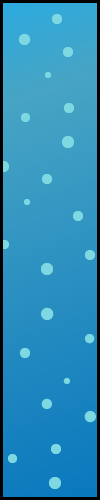
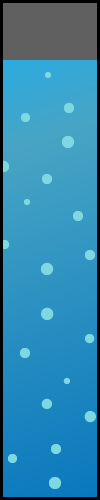
crisis update

Changed region(s): [[0.03, 0.0, 0.99, 0.12]]

diff --git a/index.html b/index.html
@@ -18,9 +18,9 @@
 
         <div id="spacer"></div>
 
-        <img id="defcon-image" src="population-01.png" alt="" class="center" width="30%">
+        <img id="defcon-image" src="defcon02.png" alt="" class="center" width="30%">
 
-        <h3>Current Population: 11,584</h3>
+        <h3>Current Population: 11,084</h3>
 
         <div id="spacer"></div>
 
@@ -39,7 +39,7 @@
                 <td width="10%">&nbsp;</td>
                 <td><h3>89%</h3></td>
                 <td><h3>100%</h3></td>
-                <td><h3>100%</h3></td>
+                <td><h3>88%%</h3></td>
                 <td width="10%">&nbsp;</td>
                 <td width="10%">&nbsp;</td>
             </tr>
